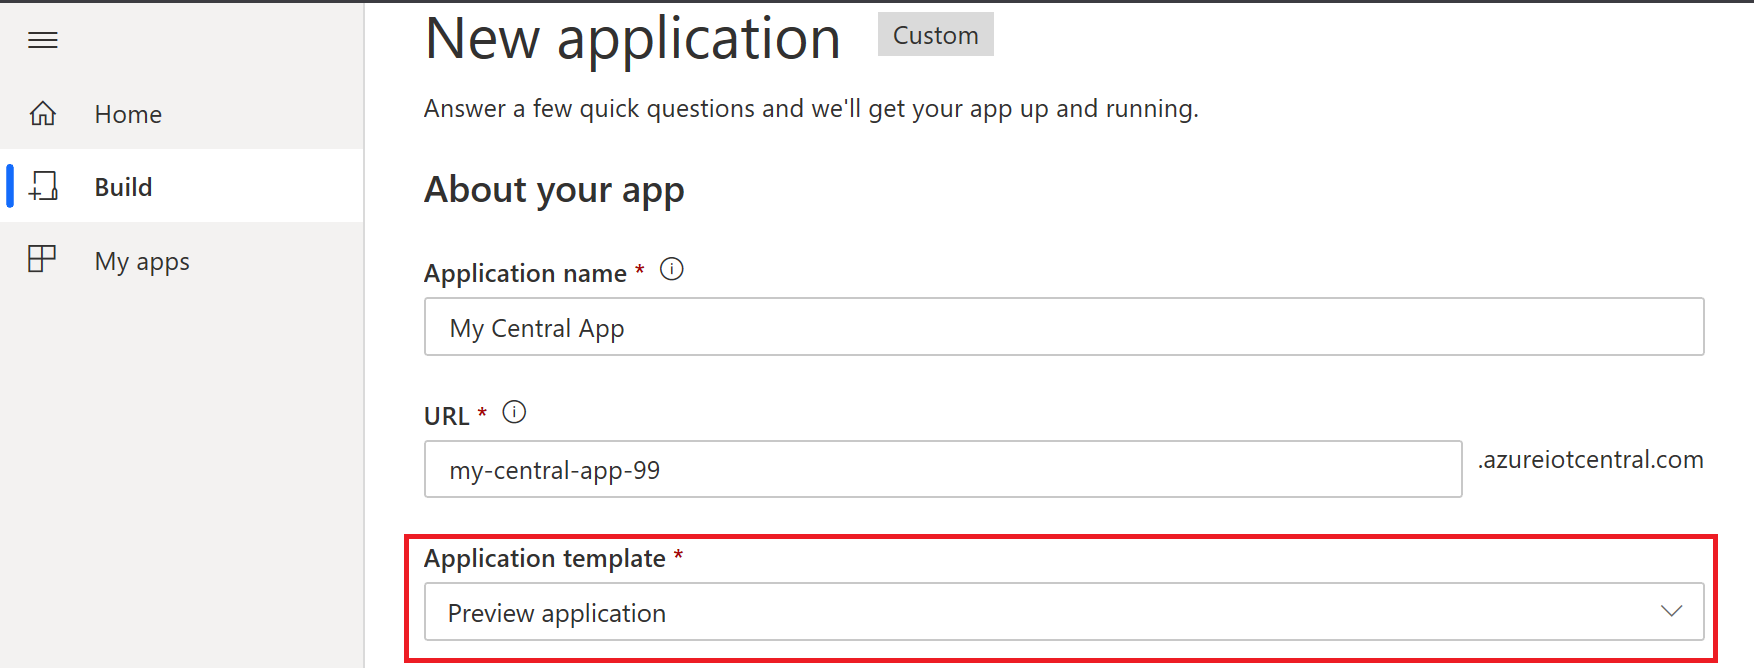
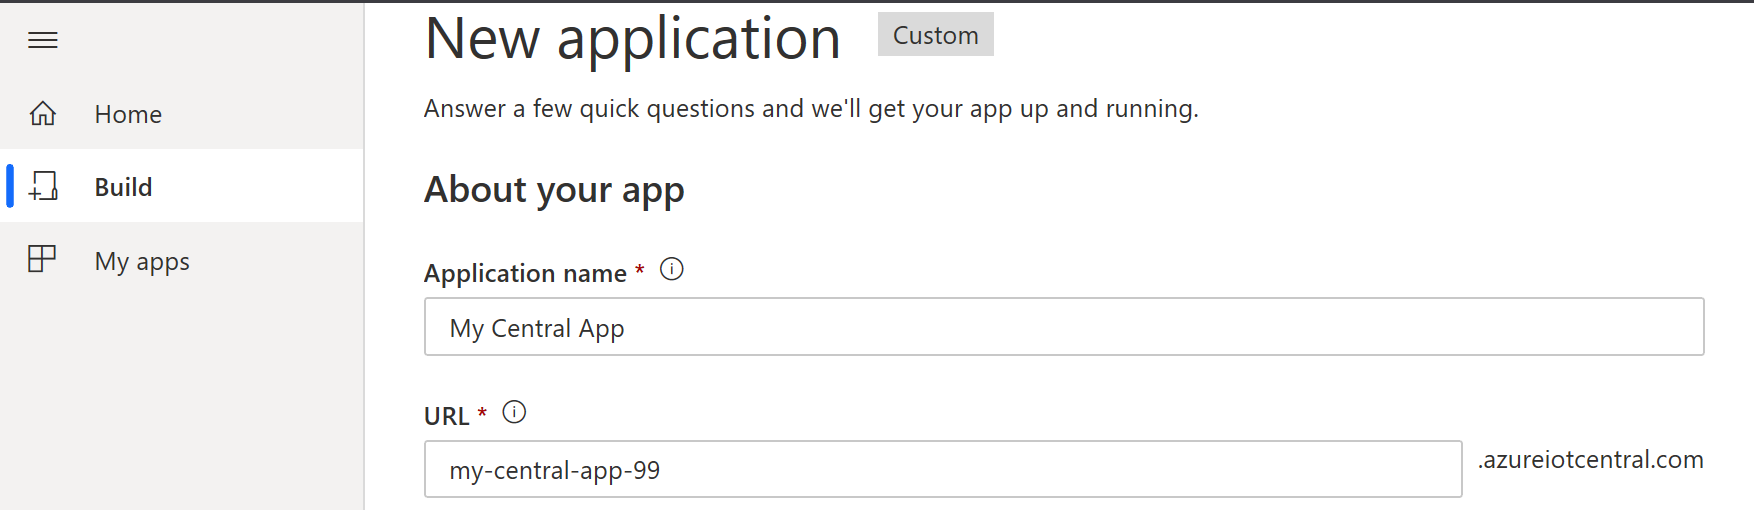
updated IoT Central module for corrections

diff --git a/edgemodule/readme.md b/edgemodule/readme.md
@@ -1,0 +1,26 @@
+# Model and Connect Azure IoT Edge devices to an Azure IoT Central application
+
+IoT Edge is made up of three components:
+
+* IoT Edge modules are containers that run Azure services, partner services, or your own code. Modules are deployed to IoT Edge devices, and run locally on those devices.
+* The IoT Edge runtime runs on each IoT Edge device, and manages the modules deployed to each device.
+* A cloud-based interface enables you to remotely monitor and manage IoT Edge devices. IoT Central is the cloud interface.
+
+A device template in IoT Central defines the capabilities of your device and IoT Edge modules. Capabilities include 
+* telemetry the module sends 
+* module properties and 
+* the commands a module responds to.
+
+
+In IoT Central  models an IoT Edge device as follows:
+
+* Every IoT Edge device template has a device capability model.
+* For every custom module listed in the deployment manifest, a module capability model is generated.
+* A relationship is established between each module capability model and a device capability model.
+* A module capability model implements module interfaces.
+* Each module interface contains 
+   * telemetry 
+   * properties
+   * commands
+
+![Diagram of IoT Edge modeling](images/edgemodelling.png)

diff --git a/iotcentral/readme.md b/iotcentral/readme.md
@@ -10,14 +10,10 @@ Click **Build** on the left Nav and click **Custom app** tile.
 
 ![Build Custom App](images/buildcustom.png)
 
-Create a new application. Make sure to use **Preview application**. IoT Central Edge is currently in public preview.
+Create a new application. 
 
 ![Preview application](images/apptemplate.png)
 
-## Build an Azure IoT Edge Device Template
-This tutorial shows you, as a builder, how to use an Azure IoT edge device template to define a new type of device in your Microsoft Azure IoT Central application. A device template defines edge modules, the telemetry, state, properties, and settings of each module and relationship with downstream devices.
+Make sure to use **Customer application**. 
 
-Click [here](https://docs.microsoft.com/en-us/azure/iot-central/preview/tutorial-define-edge-device-type) to go to docs page which will walk you thru how to build and manage an IoT Edge device template] 
-
-> [!div class="nextstepaction"]
-> [Add Edge device](https://docs.microsoft.com/en-us/azure/iot-central/preview/tutorial-define-edge-device-type)
+![Preview application](images/custom_application.png)
